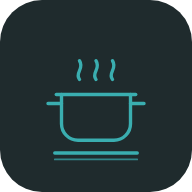
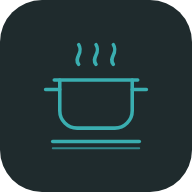
Version 73: App-Symbol mittig im Rahmen
Claude-Session: https://claude.ai/code/session_01SbUVCk3EZ9ESarJDGD22Xh

Changed region(s): [[0.2188, 0.2188, 0.7812, 0.8438]]

diff --git a/index.html b/index.html
@@ -10,13 +10,13 @@
 <meta name="mobile-web-app-capable" content="yes">
 <meta name="apple-mobile-web-app-title" content="Rezeptbuch">
 <meta name="apple-mobile-web-app-status-bar-style" content="default">
-<link rel="manifest" href="manifest.webmanifest?i=3">
-<link rel="icon" href="icons/icon.svg?i=3" type="image/svg+xml">
-<link rel="icon" href="icons/favicon-32.png?i=3" sizes="32x32" type="image/png">
-<link rel="apple-touch-icon" href="icons/apple-touch-icon.png?i=3">
+<link rel="manifest" href="manifest.webmanifest?i=5">
+<link rel="icon" href="icons/icon.svg?i=5" type="image/svg+xml">
+<link rel="icon" href="icons/favicon-32.png?i=5" sizes="32x32" type="image/png">
+<link rel="apple-touch-icon" href="icons/apple-touch-icon.png?i=5">
 <link rel="preconnect" href="https://fonts.googleapis.com">
 <link rel="stylesheet" href="https://fonts.googleapis.com/css2?family=Playfair+Display:wght@500;600;700&family=Inter:wght@400;500;600;700&display=swap">
-<link rel="stylesheet" href="style.css?v=72">
+<link rel="stylesheet" href="style.css?v=73">
 <style>
   html { padding-top: env(safe-area-inset-top, 0px); padding-bottom: env(safe-area-inset-bottom, 0px); }
   body { margin: 0; }
@@ -30,10 +30,10 @@
   <div class="empty"><h2>Wird geladen …</h2></div>
 </div>
 <div class="toast" id="toast" hidden></div>
-<script src="vendor/supabase.js?v=72"></script>
-<script src="vendor/jspdf.umd.min.js?v=72" defer></script>
-<script src="config.js?v=72"></script>
-<script src="nutrition.js?v=72"></script>
-<script src="app.js?v=72"></script>
+<script src="vendor/supabase.js?v=73"></script>
+<script src="vendor/jspdf.umd.min.js?v=73" defer></script>
+<script src="config.js?v=73"></script>
+<script src="nutrition.js?v=73"></script>
+<script src="app.js?v=73"></script>
 </body>
 </html>

diff --git a/sw.js b/sw.js
@@ -1,6 +1,6 @@
 /* Offline-Unterstützung: App-Dateien werden zwischengespeichert, Daten kommen immer frisch von Supabase. */
-const VERSION = "rb-v72";
-const SHELL = ["./", "index.html", "style.css", "app.js", "config.js", "nutrition.js", "vendor/supabase.js", "vendor/jspdf.umd.min.js", "manifest.webmanifest?i=3", "icons/icon-192.png?i=3", "icons/icon-512.png?i=3", "icons/apple-touch-icon.png?i=3", "icons/icon.svg?i=3", "icons/icon-dark.svg?i=4", "icons/icon-light.svg?i=4", "icons/standard.svg", "icons/kat-kuchen.svg", "icons/kat-kekse.svg", "icons/kat-brot.svg", "icons/kat-dessert.svg", "icons/kat-hauptgericht.svg", "icons/kat-suppen.svg", "icons/kat-saucen.svg", "icons/kat-beilagen.svg", "icons/kat-grundrezepte.svg", "icons/favicon-32.png?i=3"];
+const VERSION = "rb-v73";
+const SHELL = ["./", "index.html", "style.css", "app.js", "config.js", "nutrition.js", "vendor/supabase.js", "vendor/jspdf.umd.min.js", "manifest.webmanifest?i=5", "icons/icon-192.png?i=5", "icons/icon-512.png?i=5", "icons/apple-touch-icon.png?i=5", "icons/icon.svg?i=5", "icons/icon-dark.svg?i=4", "icons/icon-light.svg?i=4", "icons/standard.svg", "icons/kat-kuchen.svg", "icons/kat-kekse.svg", "icons/kat-brot.svg", "icons/kat-dessert.svg", "icons/kat-hauptgericht.svg", "icons/kat-suppen.svg", "icons/kat-saucen.svg", "icons/kat-beilagen.svg", "icons/kat-grundrezepte.svg", "icons/favicon-32.png?i=5"];
 self.addEventListener("install", e => { e.waitUntil(caches.open(VERSION).then(c => c.addAll(SHELL)).then(() => self.skipWaiting())); });
 self.addEventListener("activate", e => { e.waitUntil(caches.keys().then(keys => Promise.all(keys.filter(k => k !== VERSION).map(k => caches.delete(k)))).then(() => self.clients.claim())); });
 self.addEventListener("fetch", e => {
